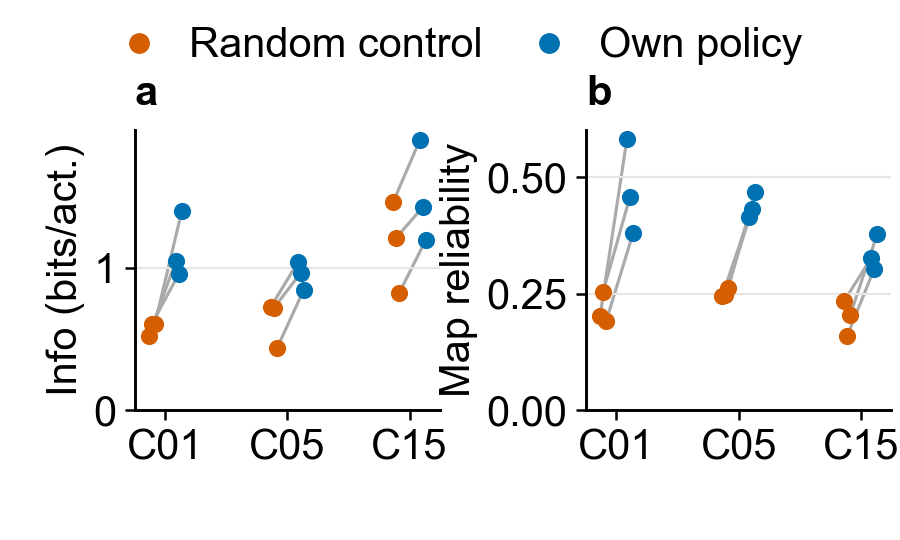
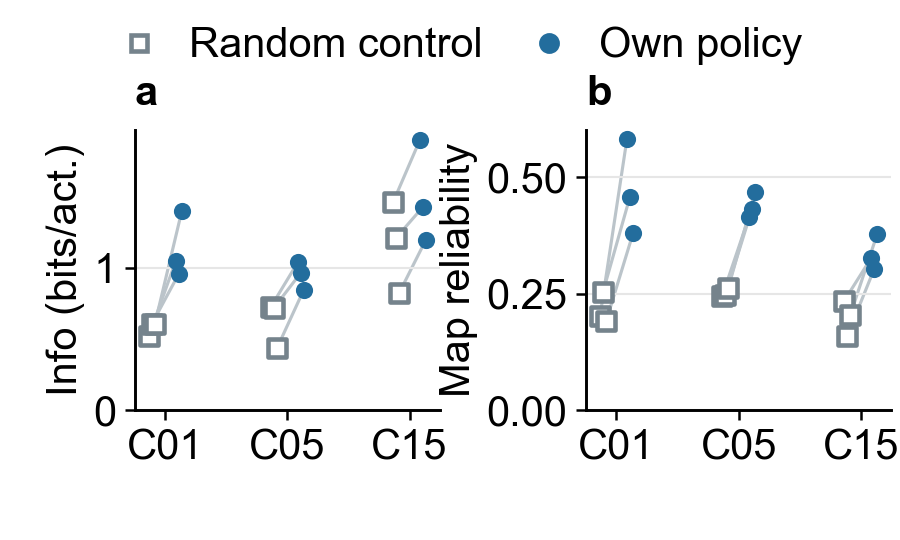
Document COSYNE semantic color palette

diff --git a/06_experiments/cosyne_2027/render_compact_figures.py b/06_experiments/cosyne_2027/render_compact_figures.py
@@ -173,7 +173,7 @@ def behavior_absolute(data: pd.DataFrame) -> None:
     fig, axes = plt.subplots(1, 2, figsize=(2 * BEHAVIOR_PANEL_SIZE_IN[0],
                                             BEHAVIOR_PANEL_SIZE_IN[1]))
     fig.subplots_adjust(left=0.15, right=0.99, bottom=0.24, top=0.76, wspace=0.48)
-    control_color, experimental_color = "#D55E00", "#0072B2"
+    control_color, experimental_color = "#75838C", "#236D9D"
     specs = (("bits_per_activation", "a", "Info (bits/act.)"),
              ("split_half_map_correlation", "b", "Map reliability"))
     for ax, (metric, panel, ylabel) in zip(axes, specs):
@@ -185,10 +185,11 @@ def behavior_absolute(data: pd.DataFrame) -> None:
             for offset, row in zip(np.linspace(-0.025, 0.025, len(seeds)),
                                    seeds.itertuples(index=False)):
                 ax.plot([x - 0.11 + offset, x + 0.11 + offset],
-                        [row.control, row.experimental], color="#aaaaaa",
+                        [row.control, row.experimental], color="#BBC4CA",
                         lw=0.75, zorder=1)
-                ax.scatter(x - 0.11 + offset, row.control, s=17,
-                           color=control_color, linewidth=0, zorder=3)
+                ax.scatter(x - 0.11 + offset, row.control, s=17, marker="s",
+                           facecolor="white", edgecolor=control_color,
+                           linewidth=1.1, zorder=3)
                 ax.scatter(x + 0.11 + offset, row.experimental, s=17,
                            color=experimental_color, linewidth=0, zorder=3)
         ax.set_xticks(range(3), ("C01", "C05", "C15"))
@@ -197,10 +198,11 @@ def behavior_absolute(data: pd.DataFrame) -> None:
         ax.set_ylim(bottom=0)
         ax.tick_params(axis="both", length=2.5, width=0.6, pad=2)
         ax.grid(axis="y", color="#e6e6e6", lw=0.5, zorder=0)
-    handles = [plt.Line2D([0], [0], marker="o", linestyle="none", color=color,
-                          markersize=4, label=label)
-               for color, label in ((control_color, "Random control"),
-                                    (experimental_color, "Own policy"))]
+    handles = [plt.Line2D([0], [0], marker="s", linestyle="none", color=control_color,
+                          markerfacecolor="white", markeredgewidth=1.1,
+                          markersize=4, label="Random control"),
+               plt.Line2D([0], [0], marker="o", linestyle="none",
+                          color=experimental_color, markersize=4, label="Own policy")]
     fig.legend(handles=handles, loc="upper center", bbox_to_anchor=(0.5, 1.02),
                ncol=2, frameon=False, handletextpad=0.2, columnspacing=0.6)
     export(fig, "02_behavior_expression_absolute")

diff --git a/06_experiments/cosyne_2027/02_behavior_expression.md b/06_experiments/cosyne_2027/02_behavior_expression.md
@@ -18,6 +18,6 @@
 
 [Editable SVG](../results/cosyne_2027_compact_figures/02_behavior_expression_absolute.svg) · [paired absolute values by training seed](../results/cosyne_2027_compact_figures/02_behavior_expression_absolute_by_seed.csv) · [original common-support information probes](../results/behavior_field_expression_20261007/paired_prefixes.csv) · [original policy-native reliability probes](../results/behavior_field_expression_20261007/per_run.csv)
 
-This is an alternative presentation of the **same three-training-seed September intervention** shown above. Orange is the uniform-random-action **control**; blue is the frozen model's **own-policy experimental** rollout. A gray line joins the two values from one training seed, after its two evaluation repeats are averaged. Panel **a** is decoder-1 information per activation on the same eligible units and equally weighted shared spatial bins. Panel **b** is split-half decoder-1 map reliability on each policy's own occupied bins, so its absolute values remain sensitive to the different visitation patterns. Both axes start at zero. Subtracting orange from blue reproduces the archived per-seed differences exactly within numerical precision. Additional-seed probes are not included in this candidate and will need a new export when available.
+This is an alternative presentation of the **same three-training-seed September intervention** shown above. Gray open squares are the uniform-random-action **control**; blue filled circles are the frozen model's **own-policy experimental** rollout. A light-gray line joins the two values from one training seed, after its two evaluation repeats are averaged. Panel **a** is decoder-1 information per activation on the same eligible units and equally weighted shared spatial bins. Panel **b** is split-half decoder-1 map reliability on each policy's own occupied bins, so its absolute values remain sensitive to the different visitation patterns. Both axes start at zero. Subtracting control from own-policy reproduces the archived per-seed differences exactly within numerical precision. Additional-seed probes are not included in this candidate and will need a new export when available.
 
-**Plot contract:** Both figures have two 1.5 × 1.8-inch panels in Arial 10 pt, following the [COSYNE figure standard](FIGURE_STANDARD.md). In the difference view, colored dots are training-seed contrasts and black segments are means. In the absolute-value candidate, orange/blue dots are control/own-policy values and gray lines join paired seeds. Regenerate from [cached inputs](../results/cosyne_2027_compact_figures/manifest.json) with [the compact renderer](render_compact_figures.py).
+**Plot contract:** Both figures have two 1.5 × 1.8-inch panels in Arial 10 pt, following the [COSYNE figure standard](FIGURE_STANDARD.md) and [color palette](COLOR_PALETTE.md). In the difference view, colored dots are training-seed contrasts and black segments are means. In the absolute-value candidate, gray open squares and blue filled circles are control and own-policy values, and light-gray lines join paired seeds. Regenerate from [cached inputs](../results/cosyne_2027_compact_figures/manifest.json) with [the compact renderer](render_compact_figures.py).

diff --git a/06_experiments/cosyne_2027/FIGURE_STANDARD.md b/06_experiments/cosyne_2027/FIGURE_STANDARD.md
@@ -1,6 +1,6 @@
 # COSYNE 2027 figure standard
 
-Use this as the starting layout for figures intended for the two-page US-letter abstract. The [question index](README.md) sets the figure order, and [the compact renderer](render_compact_figures.py) is the current executable reference. Larger diagnostic plots remain available in the source analyses.
+Use this as the starting layout for figures intended for the two-page US-letter abstract. The [question index](README.md) sets the figure order, the [color palette](COLOR_PALETTE.md) assigns semantic colors, and [the compact renderer](render_compact_figures.py) is the current executable reference. Larger diagnostic plots remain available in the source analyses.
 
 ## Physical layout and typography
 
@@ -14,7 +14,7 @@ Render at the **final physical size**. Do not make a large plot and shrink it in
 ## Evidence encoding
 
 - In paired-difference plots, training seeds are individual colored dots; a short black segment marks their mean. A gray horizontal line marks zero difference. State the contrast direction in the caption.
-- An absolute-value candidate can place control and experimental dots side by side, joined by a thin line for each training seed. Label both groups directly or in a shared legend, begin nonnegative metric axes at zero, and keep the paired-difference source table available.
+- An absolute-value candidate can place gray open-square controls and blue filled-circle experimental values side by side, joined by a thin line for each training seed. Label both groups directly or in a shared legend, begin nonnegative metric axes at zero, and keep the paired-difference source table available.
 - Keep the training seed as the independent unit. Average evaluation repeats within that seed; show the actual $n$ for each factor cell. Show missing cells rather than silently dropping an architecture or manipulation.
 - For learning curves, use environment steps on the horizontal axis, unsmoothed seed means, and a translucent $\pm1$ SEM band. Define interpolation and support in the caption.
 - Use the same factor names, colors, and metric direction across panels. Make signs readable in grayscale through the zero line, marker positions, and direct labels.

diff --git a/06_experiments/cosyne_2027/COLOR_PALETTE.md b/06_experiments/cosyne_2027/COLOR_PALETTE.md
@@ -1,0 +1,15 @@
+# COSYNE 2027 color palette
+
+Use color for **one variable per panel**. Keep labels, marker shapes, and line styles so the meaning survives grayscale printing. See [figure standard](FIGURE_STANDARD.md) for size and typography.
+
+| Context | Role | Color | Encoding |
+| --- | --- | --- | --- |
+| Architecture comparison | C01 / C05 / C15 | `#0072B2` blue / `#D55E00` vermilion / `#009E73` green | Existing result-figure colors; label every curve or group. |
+| Mechanism schematic | Push / pull / CA3 memory | `#AE453E` red / `#236D9D` blue / `#257873` teal | Use for arrows and mechanism labels, not architecture identities. |
+| Illustrative landmarks | DG events 1 / 2 / 3 | `#B58C22` ochre / `#8B6CA8` violet / `#4C9380` sea green | Number each event; repeat its *same* color on the corresponding CA3 sequence segment. Show order by position and arrows, not hue alone. |
+| Condition comparison | Normal or own policy / control or random | `#236D9D` blue / `#75838C` slate gray | Normal: filled circle, solid line. Control: open square, dashed line. Pair matched seeds with `#BBC4CA` light-gray connectors. |
+| Neutral structure | Text / secondary edges / grid or unvisited area | `#183043` / `#75838C` / `#E2E8EB` | Keep backgrounds white or nearly white; never use grid gray as a data series. |
+
+**Factorial panels:** When C01/C05/C15 are compared, architecture owns the hue; encode temporal versus constant or intact versus ablated with solid/filled versus dashed/open marks. Within one architecture, the tested push or pull component may use its mechanism color against gray control. For a $2\times2$ C05 plot, use color for the factor named in the question and line or marker style for the crossed factor. Avoid four unrelated condition colors.
+
+**Current adoption:** The architecture curves and compact push/pull schematic already follow their respective color rows. The control-versus-own-policy [behavior candidate](02_behavior_expression.md#candidate-control-and-experimental-values) uses the condition row. The three landmark colors are the target for the next DG-to-CA3 sequence illustration; keep the event numbers visible. Do not recolor archived diagnostic figures merely to match this page.

diff --git a/06_experiments/cosyne_2027/README.md b/06_experiments/cosyne_2027/README.md
@@ -13,7 +13,7 @@ This is the entry point for the [original two-page abstract outline](../../99_in
 
 **Source analyses:** [Online W&B and frozen-policy secondary readouts](online_and_behavior_analysis_20261011.md) · [Retained-snapshot peak spread and cutoff sensitivity](snapshot_peak_spread_20261011.md) · [Frozen-checkpoint policy-specific and identical-observation fields](checkpoint_fields_20261011.md). These remain as provenance and full candidate-plot reports; the ordered question reports are the reading path for the abstract. [Compact plotting code](render_compact_figures.py) reads only cached CSVs, with [source hashes and figure specifications](../results/cosyne_2027_compact_figures/manifest.json).
 
-The [figure standard](FIGURE_STANDARD.md) records final-size panel dimensions, Arial 10 pt typography, seed-level encoding, provenance, and visual review checks. Simple behavior-expression dot panels use 1.5 × 1.8 inches.
+The [figure standard](FIGURE_STANDARD.md) records final-size panel dimensions, Arial 10 pt typography, seed-level encoding, provenance, and visual review checks. The [color palette](COLOR_PALETTE.md) assigns separate colors to architectures, mechanisms, landmark identities, and controls. Simple behavior-expression dot panels use 1.5 × 1.8 inches.
 
 The [training attempt catalog](training_runs.csv) joins old and new production runs by explicit family, seed, factors, StudySpec fingerprint, job ID, replacement lineage, and NEMO2 run directory. The [frozen-policy evaluation catalog](frozen_policy_evaluations.csv) joins all 54 own-policy/random-policy probes to their nine September parent checkpoints. Regenerate both with `python -m 06_experiments.cosyne_2027.build_run_index` from the repository root. These catalogs contain paths and provenance, not copied checkpoints. Bulk checkpoints and raw telemetry remain in their NEMO2 workspaces.
 

diff --git a/infra.md b/infra.md
@@ -2086,7 +2086,9 @@ For each finding, record:
   the pinned probe tables and checks that their paired differences reproduce
   the archived difference table. This is a local study adapter because the
   standardized study and telemetry contracts already supply the underlying
-  analysis tables.
+  analysis tables. The [palette](06_experiments/cosyne_2027/COLOR_PALETTE.md)
+  separates architecture, mechanism, landmark, and condition roles; the
+  absolute candidate now uses gray open-square controls instead of C05 orange.
 - **Acceptance:** The six compact PNGs have their declared physical sizes,
   verified scalable Arial, no clipped labels at 100% size, unchanged source
   CSV hashes, and one-to-one claim/source links in the question reports. The
